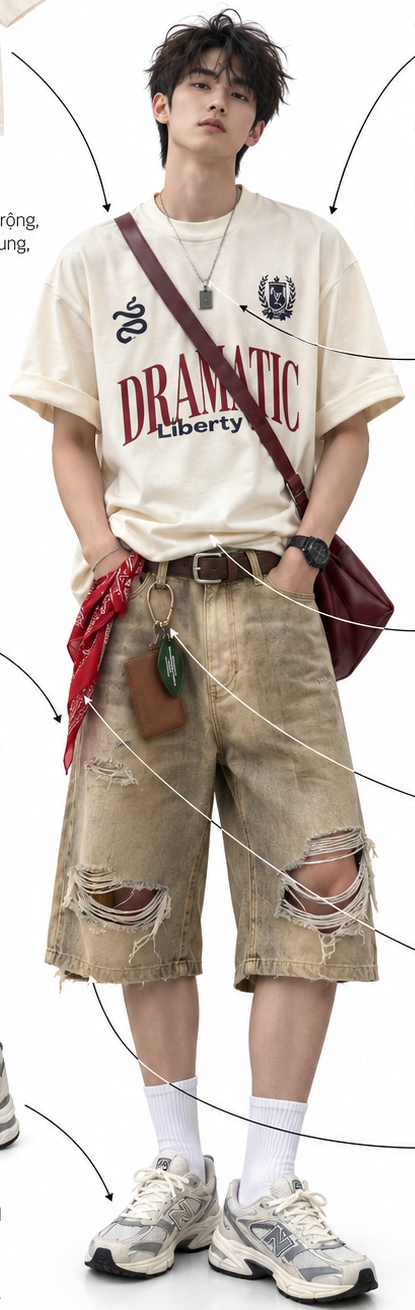
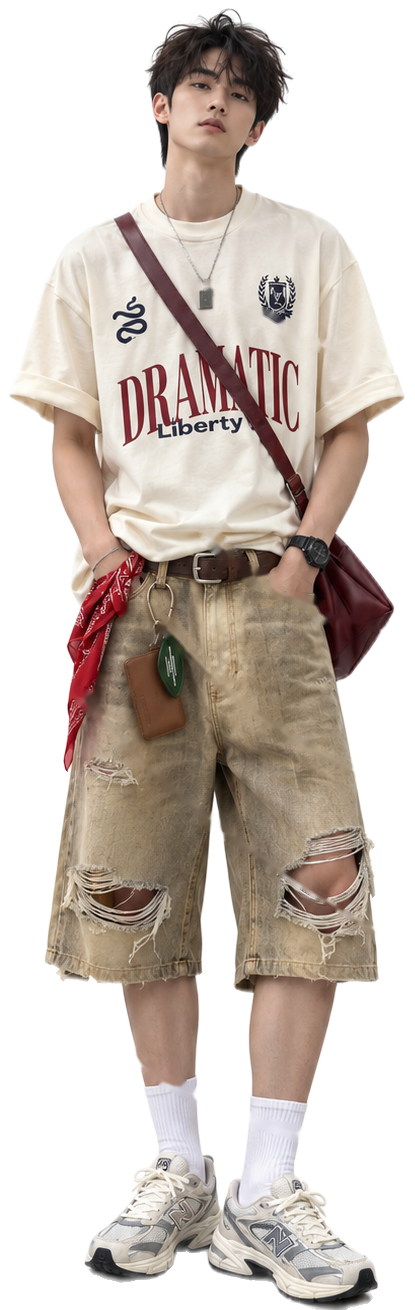
chore: clean baked-in arrow lines from sample model photos

diff --git a/scripts/assets/clean-model-lines.py b/scripts/assets/clean-model-lines.py
@@ -1,0 +1,101 @@
+"""Clean a lookbook model photo: white background + arrow lines inpainted.
+
+Usage (repo root): python -I scripts/assets/clean-model-lines.py <outfit-slug>
+In : assets-source/cut/<slug>/raw/model-with-lines.png
+Out: assets-source/cut/<slug>/model.png (same size, so seed anchors stay valid)
+"fill": "patch" (top-level or per line) copies nearby texture; default "telea" inpaints.
+Traces: scripts/assets/model-line-traces-<slug>.json
+  {"lines": [{"pts": [[x, y], ...], "r": corridor half-width px, "thr": diff threshold, "med": median window,
+   "direct": true -> inpaint the whole corridor (for lines over fine detail)}]}
+Only pixels inside a corridor that also differ from the local median are inpainted.
+"""
+import json
+import sys
+from pathlib import Path
+
+import cv2
+import numpy as np
+from PIL import Image
+from rembg import new_session, remove
+from scipy import ndimage as ndi
+
+
+def line_masks(img: np.ndarray, traces: dict) -> dict:
+    gray = cv2.cvtColor(img, cv2.COLOR_RGB2GRAY)
+    masks = {"patch": np.zeros(gray.shape, np.uint8), "telea": np.zeros(gray.shape, np.uint8)}
+    for ln in traces["lines"]:
+        mode = ln.get("fill", traces.get("fill", "telea"))
+        corridor = np.zeros_like(masks[mode])
+        pts = np.array(ln["pts"], np.int32).reshape(-1, 1, 2)
+        cv2.polylines(corridor, [pts], False, 255, max(1, round(2 * ln.get("r", 7))))
+        kernel = np.ones((3, 3), np.uint8)
+        if ln.get("direct"):
+            masks[mode] |= cv2.dilate(corridor, kernel)
+            continue
+        med = cv2.medianBlur(gray, ln.get("med", 25))
+        diff = cv2.absdiff(gray, med) > ln.get("thr", 25)
+        masks[mode] |= cv2.dilate(((corridor > 0) & diff).astype(np.uint8) * 255, kernel, iterations=2)
+    return masks
+
+
+def patch_fill(img: np.ndarray, mask: np.ndarray) -> np.ndarray:
+    """Fill each masked blob with the best-matching nearby patch (keeps mesh/denim texture)."""
+    out, h, w = img.copy(), *img.shape[:2]
+    labels, n = ndi.label(mask > 0)
+    for i in range(1, n + 1):
+        comp = labels == i
+        ring = ndi.binary_dilation(comp, iterations=4) & (mask == 0)
+        ys, xs = np.nonzero(comp | ring)
+        y0, y1, x0, x1 = ys.min(), ys.max() + 1, xs.min(), xs.max() + 1
+        best, best_d = None, 1e18
+        for dy in range(-45, 46, 3):
+            for dx in range(-45, 46, 3):
+                if max(abs(dx), abs(dy)) < 6 or not (0 <= y0 + dy and y1 + dy <= h and 0 <= x0 + dx and x1 + dx <= w):
+                    continue
+                cm = comp[y0:y1, x0:x1]
+                rm = ring[y0:y1, x0:x1]
+                sm = mask[y0 + dy:y1 + dy, x0 + dx:x1 + dx]
+                if (sm[cm | rm] > 0).any():
+                    continue
+                a = img[y0:y1, x0:x1][rm].astype(float)
+                b = img[y0 + dy:y1 + dy, x0 + dx:x1 + dx][rm].astype(float)
+                d = np.abs(a - b).mean()
+                if d < best_d:
+                    best, best_d = (dy, dx), d
+        if best is None:
+            continue
+        dy, dx = best
+        cm = comp[y0:y1, x0:x1]
+        out[y0:y1, x0:x1][cm] = img[y0 + dy:y1 + dy, x0 + dx:x1 + dx][cm]
+    return out
+
+
+def person_alpha(img: Image.Image) -> np.ndarray:
+    soft = np.array(remove(img, session=new_session("u2net"), only_mask=True)) / 255.0
+    solid = ndi.binary_opening(soft > 0.5, iterations=3)
+    labels, n = ndi.label(solid)
+    keep = labels == (1 + int(np.argmax(ndi.sum(solid, labels, range(1, n + 1)))))
+    return np.where(ndi.binary_dilation(keep, iterations=2), soft, 0.0)
+
+
+def main() -> int:
+    if len(sys.argv) != 2:
+        print(__doc__)
+        return 2
+    slug = sys.argv[1]
+    src = Path("assets-source/cut") / slug / "raw" / "model-with-lines.png"
+    traces = json.loads(Path(f"scripts/assets/model-line-traces-{slug}.json").read_text(encoding="utf-8"))
+    pil = Image.open(src).convert("RGB")
+    img = np.array(pil)
+    masks = line_masks(img, traces)
+    fixed = patch_fill(img, masks["patch"])
+    fixed = cv2.inpaint(fixed, masks["telea"], 3, cv2.INPAINT_TELEA)
+    a = person_alpha(pil)[..., None]
+    out = np.clip(fixed * a + 255.0 * (1 - a), 0, 255).astype(np.uint8)
+    Image.fromarray(out).save(src.parent.parent / "model.png")
+    print(f"{slug}: {pil.size} -> {out.shape[1]}x{out.shape[0]}")
+    return 0
+
+
+if __name__ == "__main__":
+    sys.exit(main())

diff --git a/plans/reports/fullstack-developer-261106-1715-clean-model-lines.md b/plans/reports/fullstack-developer-261106-1715-clean-model-lines.md
@@ -1,0 +1,30 @@
+# Báo cáo: làm sạch ảnh model (bản test)
+
+## Kết quả
+- Backup gốc: `assets-source/cut/{dramatic,mesh-84}/raw/model-with-lines.png` (raw/ đã gitignore).
+- Output ghi đè: `assets-source/cut/dramatic/model.png`, `assets-source/cut/mesh-84/model.png`.
+- Kích thước (Pillow) giữ nguyên: dramatic 415x1310 -> 415x1310; mesh-84 436x1338 -> 436x1338. Anchors không đổi.
+- Nền: pixel mẫu (góc, mép) = #ffffff. Người tách bằng rembg u2net + opening 3px + lấy thành phần liên thông lớn nhất, alpha mềm (không halo xám).
+- Mảnh item lân cận, chữ bên trái, mũi tên ngoài người: hết (nằm ngoài mask người).
+- Before/after: `plans/261106-1201-under30ss-shop-the-look/visuals/model-clean-before-after-{dramatic,mesh-84}.png`.
+
+## File
+- `scripts/assets/clean-model-lines.py` (101 dòng). Chạy lại: `python -I scripts/assets/clean-model-lines.py dramatic|mesh-84` (đọc raw/model-with-lines.png, ghi model.png).
+- `scripts/assets/model-line-traces-dramatic.json`, `model-line-traces-mesh-84.json`: polyline vẽ tay (toạ độ px ảnh gốc), mỗi line có `r` (nửa bề rộng hành lang), `thr`, `med`, `direct`, `fill`.
+- Cơ chế: chỉ pixel nằm trong hành lang VÀ lệch khỏi median cục bộ mới bị xoá (không làm mờ chi tiết ngoài hành lang). Fill: Telea (mặc định) hoặc `patch` (copy texture lân cận, dùng cho lưới mesh để khỏi bị vệt xám).
+- Cài thêm `opencv-python-headless` (pip). Không chạm file nào khác; không seed/Docker/git.
+
+## Chi tiết giữ nguyên (kiểm bằng mắt)
+Dây chuyền, móc khoá + dây chuyền mesh-84, dây tai nghe (đoạn thật), dây giày, thắt lưng, đồng hồ, dây túi, chữ DRAMATIC Liberty, số 84.
+
+## Còn chưa hoàn hảo
+- dramatic, đầu mũi tên dưới logo huy hiệu (~x265-285,y310-325): còn vệt xám nhạt nhỏ.
+- dramatic, đường đi qua lỗ rách gối phải (~x280-370,y870-930): vẫn còn vệt sáng mờ do đường đè lên sợi chỉ; thấy rõ khi zoom, ở kích thước thường khá nhẹ.
+- dramatic, vài chỗ mép tất/thắt lưng hơi nhoè nhẹ (đường qua tất trái/phải, ~1px).
+- mesh-84, vệt nhoè nhẹ ở ~x100-165,y490-505 (đường có đầu vòng) và dưới bụng ~x100-190,y520-585 (đường dài trắng). Đoạn dây tai nghe thật trên đó (y<515) giữ lại; ranh giới "dây tai nghe vs đường mũi tên" ở ~(196,520) là phán đoán thủ công.
+- Bóng xám dưới giày mesh-84 (y~1300-1320) do rembg coi là người, chưa chuyển trắng.
+- Chưa có code-reviewer/tester chạy; chưa unit test (script ảnh một lần, kiểm bằng mắt + kiểm kích thước).
+
+**Status:** DONE_WITH_CONCERNS
+**Summary:** Hai model.png đã sạch nền trắng, kích thước y hệt gốc, các đường mũi tên bị xoá bằng inpaint theo polyline tay; script chạy lại được.
+**Concerns/Blockers:** Còn vài vệt nhoè nhỏ (xem mục "Còn chưa hoàn hảo"), chấp nhận được cho ảnh test, nên thay bằng ảnh sạch thật khi có.
